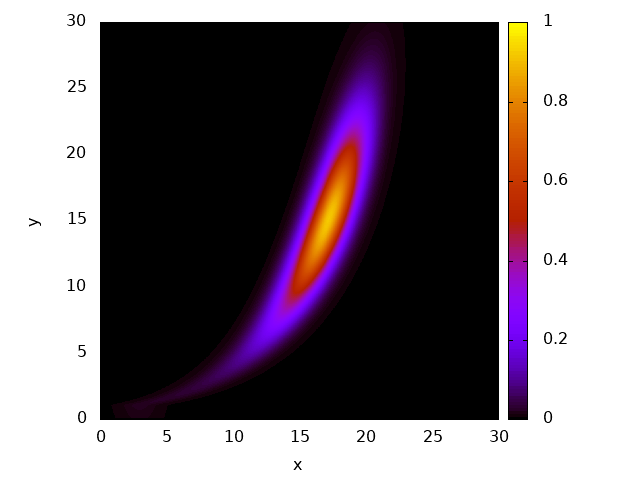
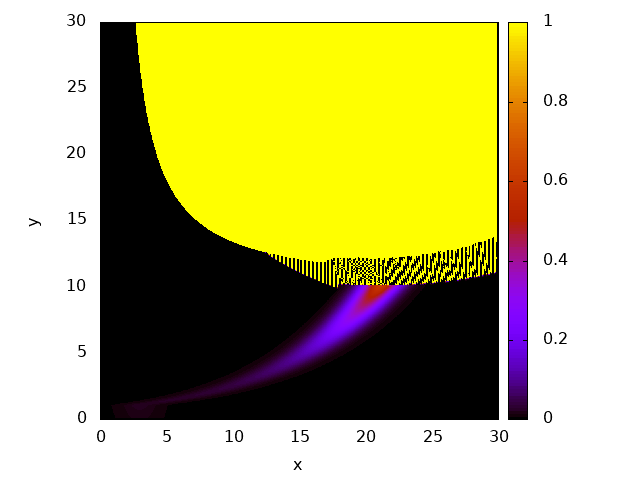
task 2.3 done

diff --git a/advection2D.c b/advection2D.c
@@ -187,7 +187,7 @@ int main(){
     // which are not being modified in this loop. Thus, iterations can be executed in 
     // parallel without causing data races.
     const double z_0 = 1.0; // Roughness length
-    const double u_star = 0.12; // Friction velocity
+    const double u_star = 0.2; // Friction velocity
     const double kappa = 0.41; // Von Karman constant
     #pragma omp parallel for collapse(2)
     for (int i = 1; i < NX + 1; i++) {
